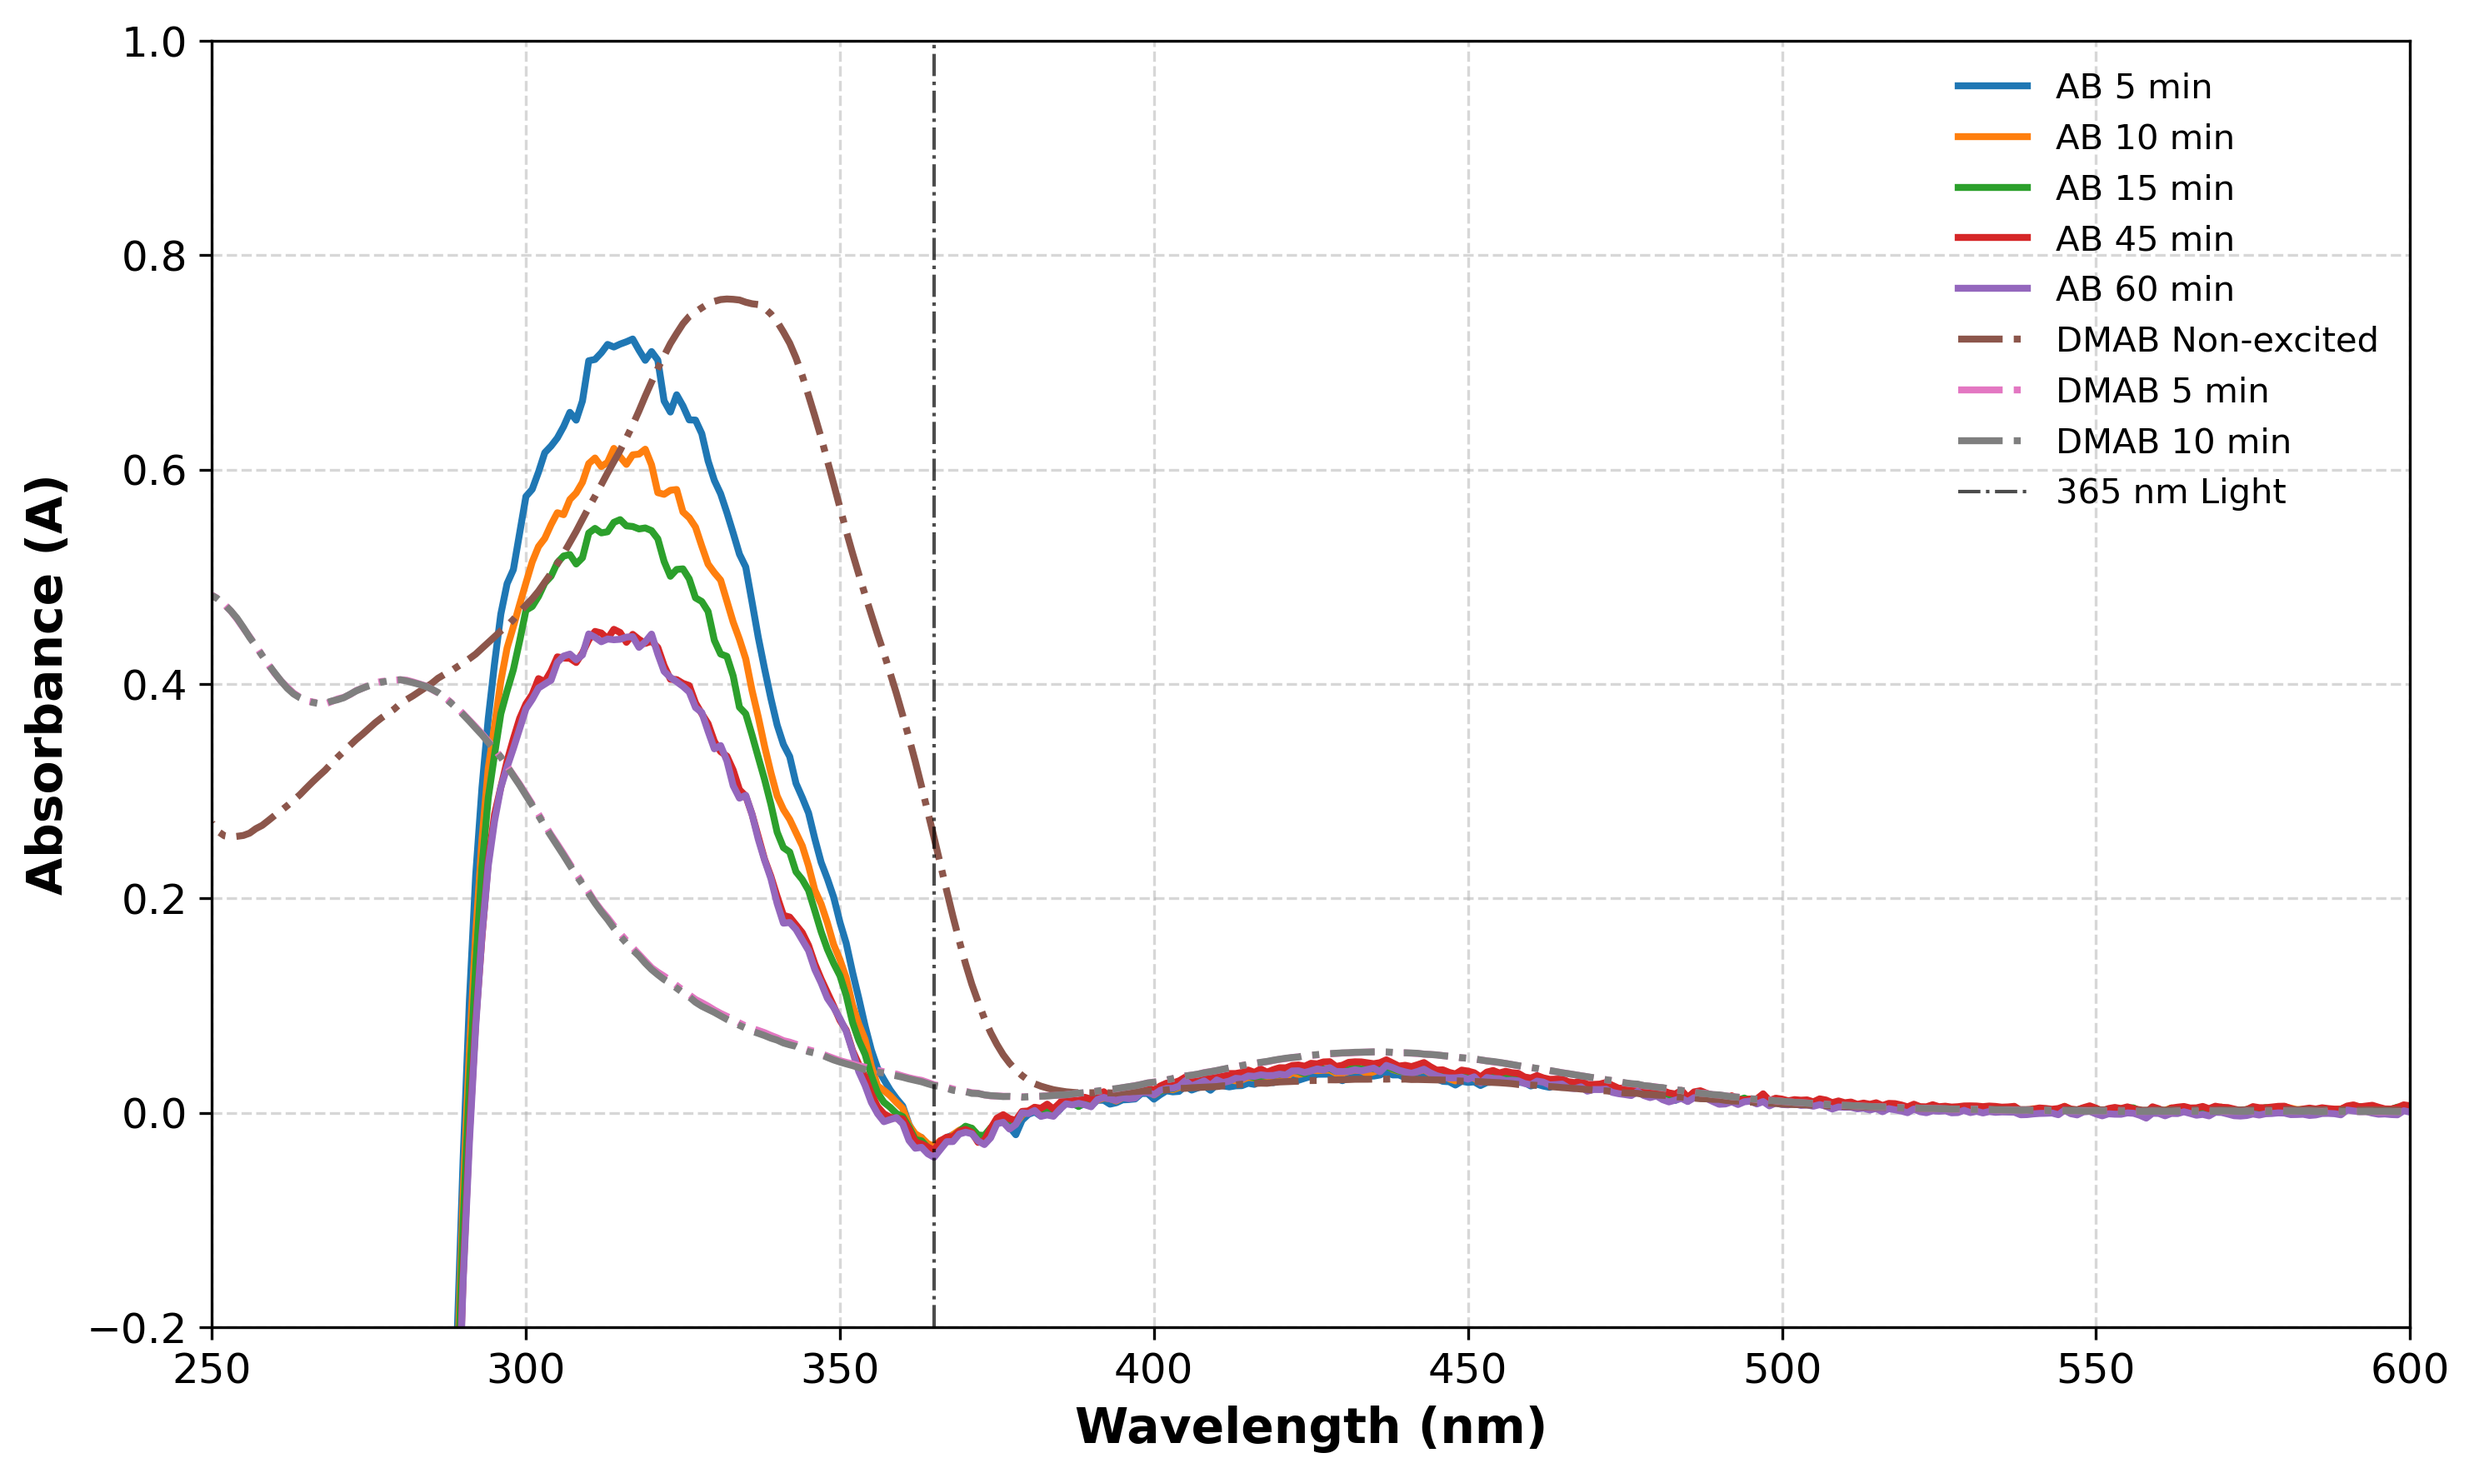
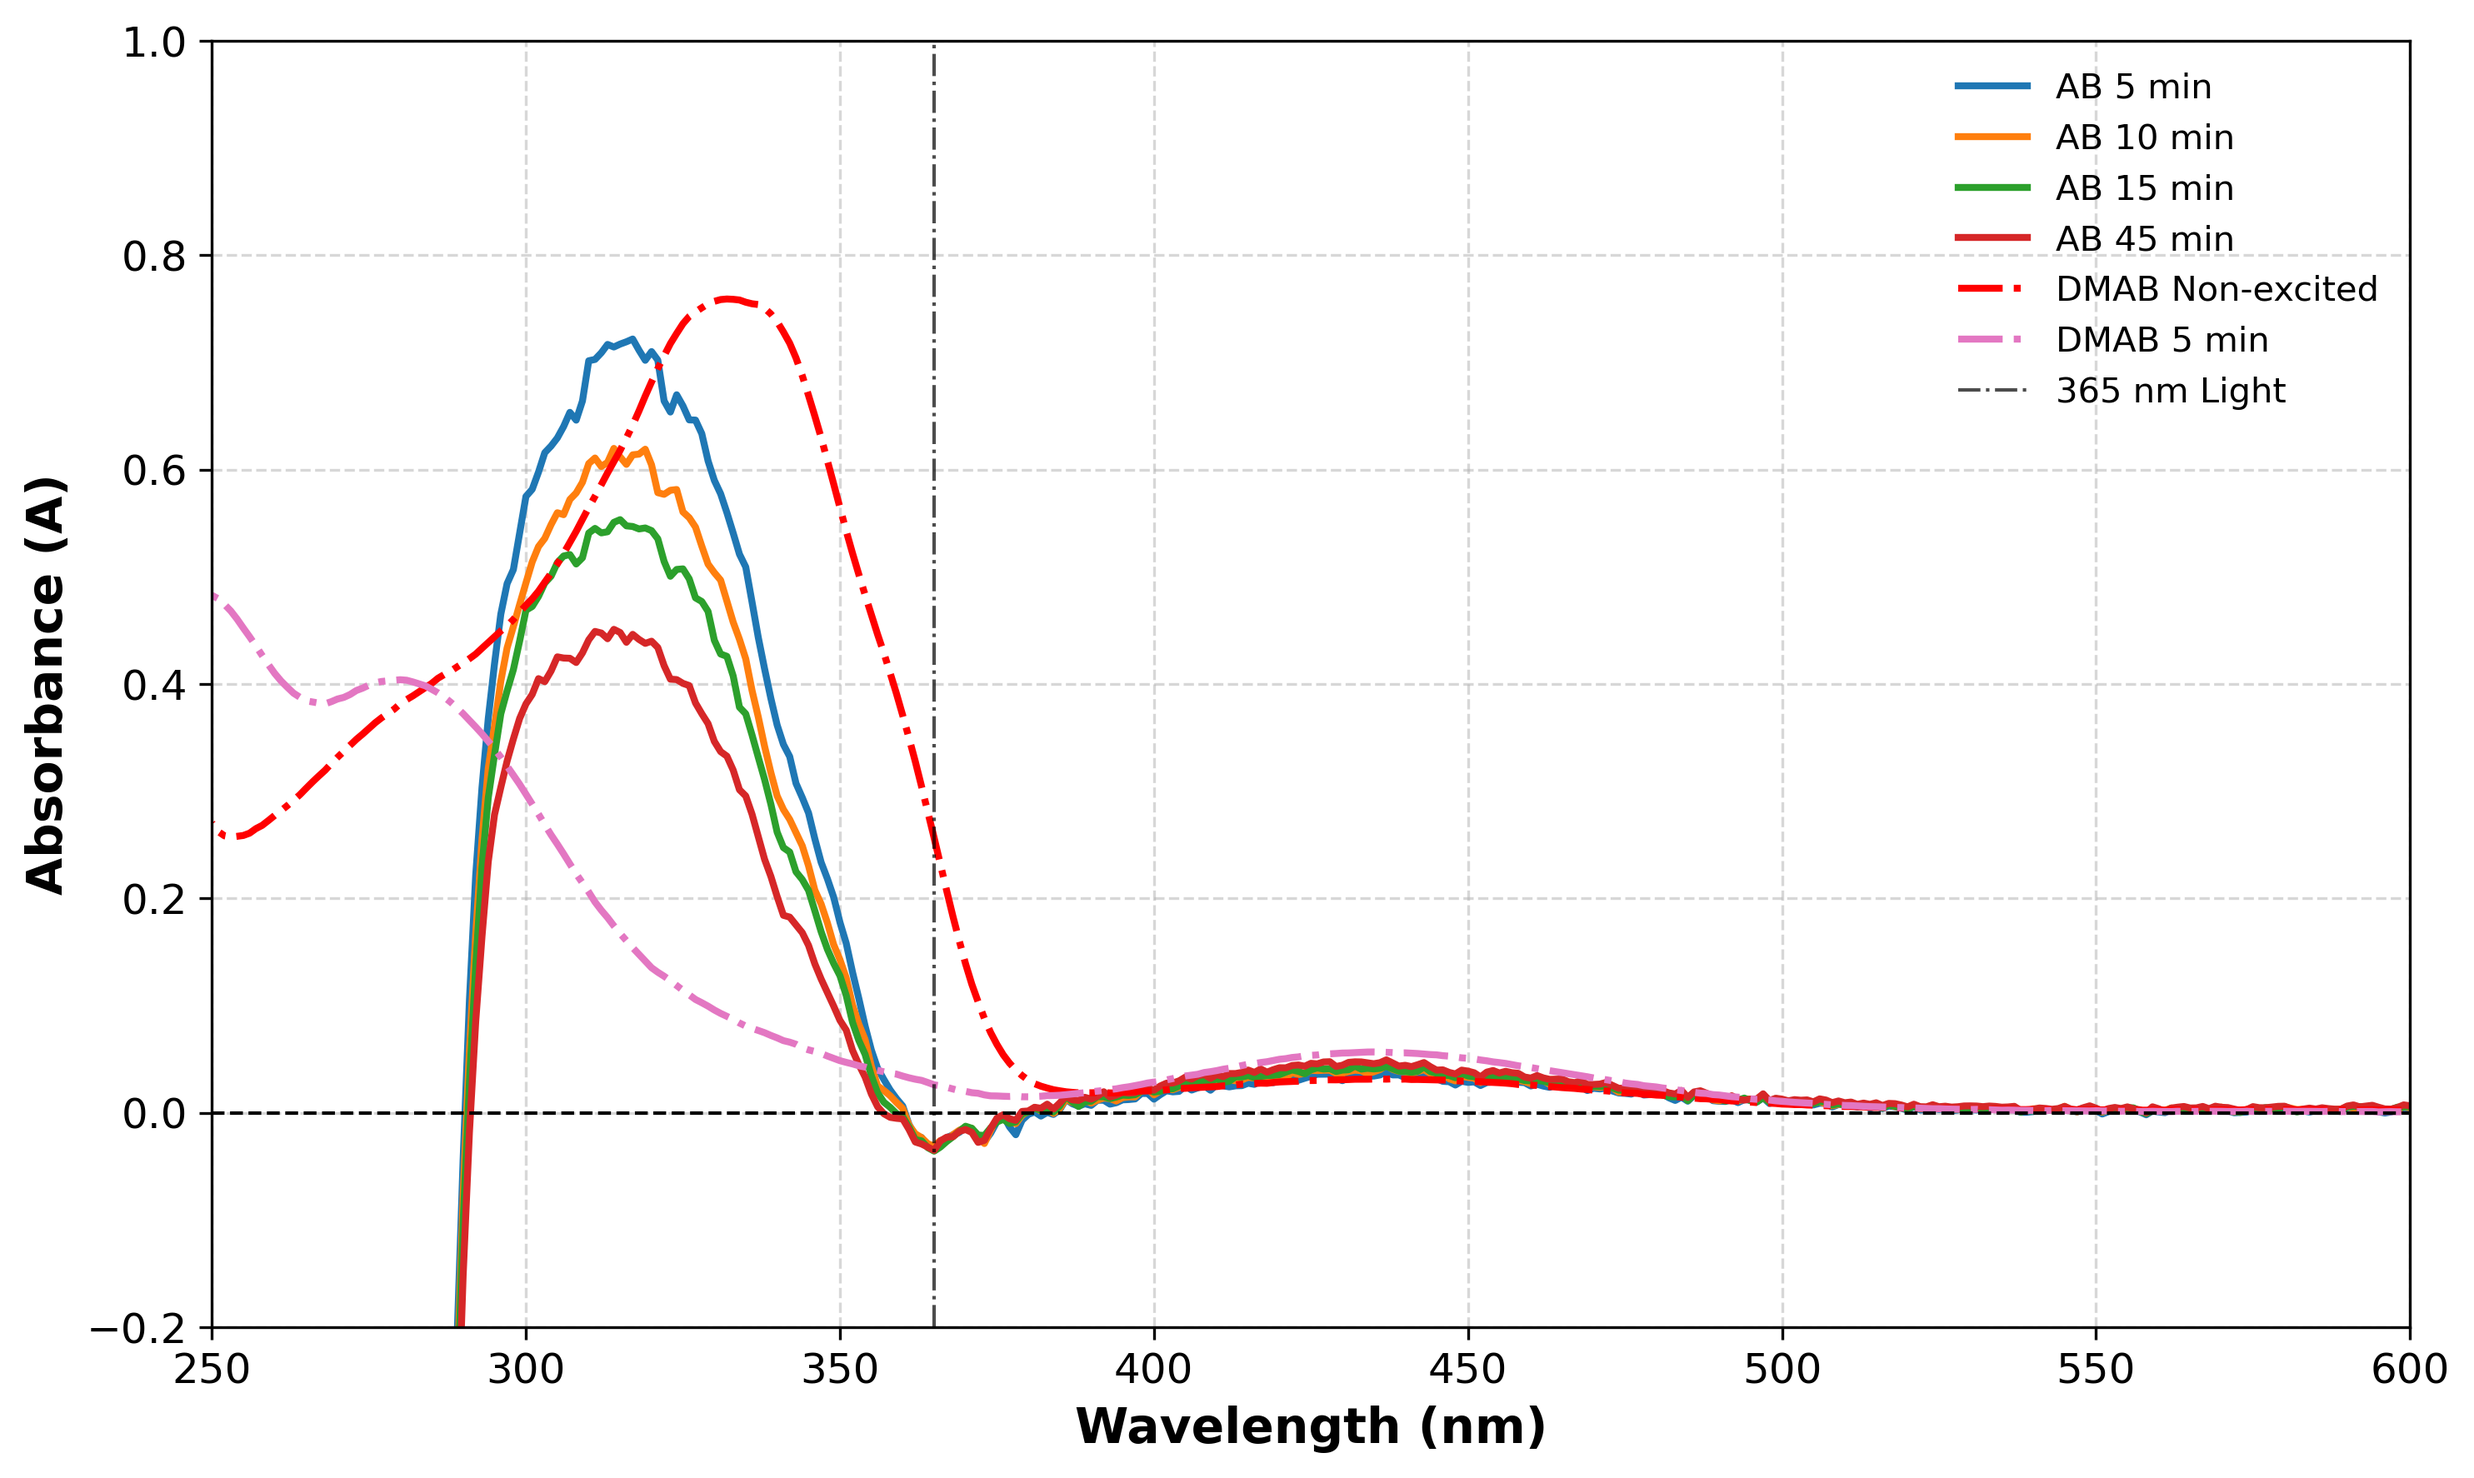
update 11 files

diff --git a/Report_plotting.py b/Report_plotting.py
@@ -21,16 +21,16 @@ plt.plot(data_ab_5min['nm'], data_ab_5min['A'], label='AB 5 min', color='#1f77b4
 plt.plot(data_ab_10min['nm'], data_ab_10min['A'], label='AB 10 min', color='#ff7f0e', linestyle='-', linewidth=2)  # Orange, straight line
 plt.plot(data_ab_15min['nm'], data_ab_15min['A'], label='AB 15 min', color='#2ca02c', linestyle='-', linewidth=2)  # Green, straight line
 plt.plot(data_ab_45min['nm'], data_ab_45min['A'], label='AB 45 min', color='#d62728', linestyle='-', linewidth=2)  # Red, straight line
-plt.plot(data_ab_60min['nm'], data_ab_60min['A'], label='AB 60 min', color='#9467bd', linestyle='-', linewidth=2)  # Purple, straight line
+# plt.plot(data_ab_60min['nm'], data_ab_60min['A'], label='AB 60 min', color='#9467bd', linestyle='-', linewidth=2)  # Purple, straight line
 
 # Plotting DMAB datasets
-plt.plot(data_dmab_nonexited['nm'], data_dmab_nonexited['A'], label='DMAB Non-excited', color='#8c564b', linestyle='-.', linewidth=2)  # Brown, dashed-dot
+plt.plot(data_dmab_nonexited['nm'], data_dmab_nonexited['A'], label='DMAB Non-excited', color='red', linestyle='-.', linewidth=2)  # Brown, dashed-dot
 plt.plot(data_dmab_5min['nm'], data_dmab_5min['A'], label='DMAB 5 min', color='#e377c2', linestyle='-.', linewidth=2)  # Pink, dashed-dot
-plt.plot(data_dmab_10min['nm'], data_dmab_10min['A'], label='DMAB 10 min', color='#7f7f7f', linestyle='-.', linewidth=2)  # Gray, dashed-dot
+# plt.plot(data_dmab_10min['nm'], data_dmab_10min['A'], label='DMAB 10 min', color='#7f7f7f', linestyle='-.', linewidth=2)  # Gray, dashed-dot
 
 # Highlight 365 nm line
 plt.axvline(365, color='black', linestyle='-.', linewidth=1, alpha=0.7, label='365 nm Light')
-
+plt.axhline(0, color='black', linestyle='--', linewidth=1)
 # Formatting
 plt.xlabel('Wavelength (nm)', fontsize=14, fontweight='bold')
 plt.ylabel('Absorbance (A)', fontsize=14, fontweight='bold')
